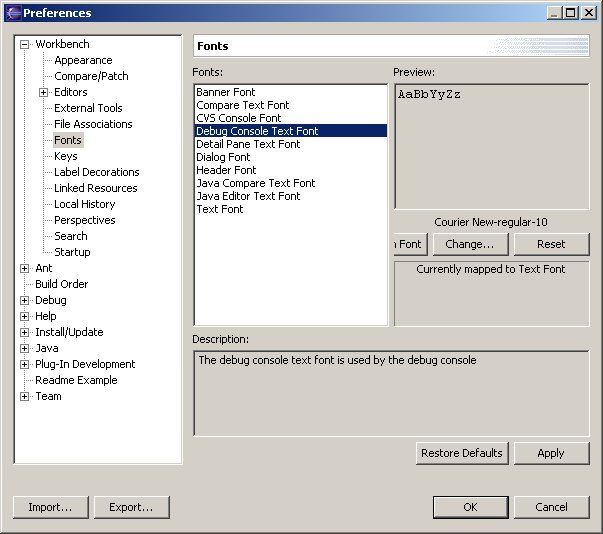
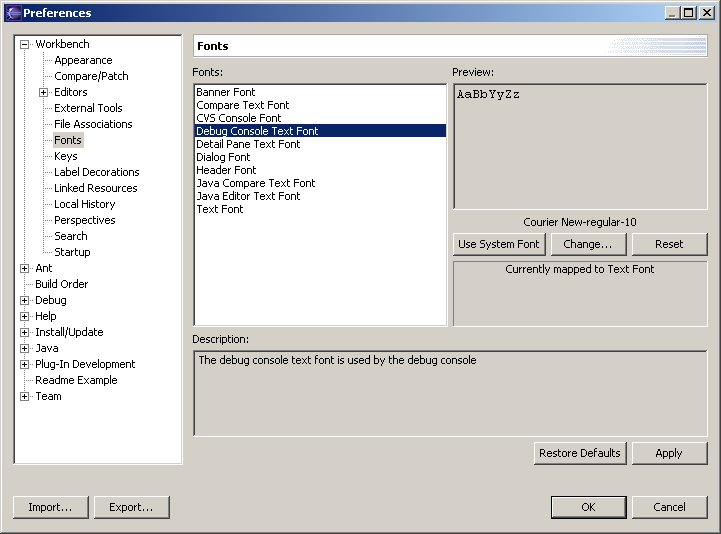
*** empty log message ***

diff --git a/bundles/org.eclipse.platform.doc.isv/guide/workbench_advext_fonts.htm b/bundles/org.eclipse.platform.doc.isv/guide/workbench_advext_fonts.htm
@@ -28,7 +28,7 @@ plug-in with all of the other font preferences installed in the workbench.&nbsp;
 For example, the debugger contributes a font setting for console text:</p>
 
 
-<p><img border="0" src="images/fontdefinitions.jpg" width="603" height="534">&nbsp;</p>
+<p><img border="0" alt="Font definitions preference page showing list of fonts" src="images/fontdefinitions.jpg" width="721" height="534"></p>
 
 
 <p> This font definition is contributed by the debugger using the <a href="../reference/extension-points/org_eclipse_ui_fontDefinitions.html"><b>org.eclipse.ui.fontDefinitions</b></a>

diff --git a/bundles/org.eclipse.platform.doc.isv/guide/resInt_filesystem.htm b/bundles/org.eclipse.platform.doc.isv/guide/resInt_filesystem.htm
@@ -181,7 +181,8 @@ for more information.&nbsp; You can also use <a href="../reference/api/org/eclip
 
 
 <H3>
-Mapping resources to disk locations</H3>
+<a name="mapping">
+Mapping resources to disk locations</a></H3>
 <P >
   In the sample resource tree, we've assumed that all of the project content directories are
 in the <b>workspace</b> directory underneath the platform root
